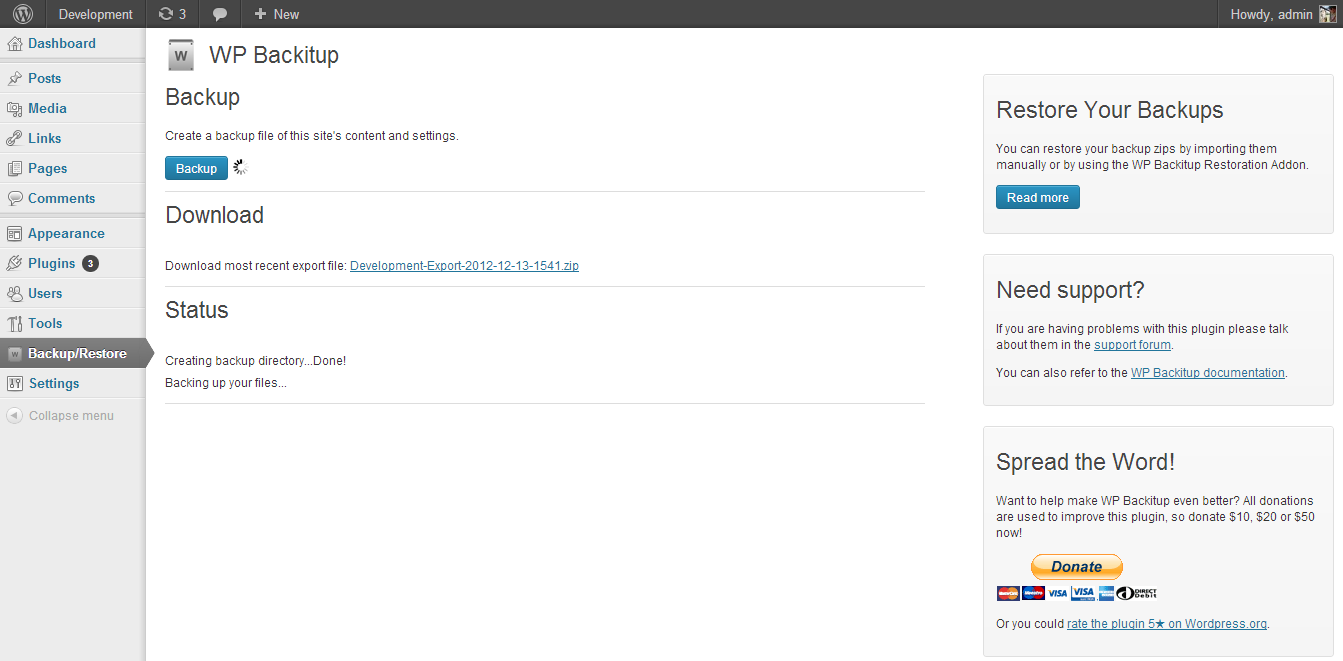
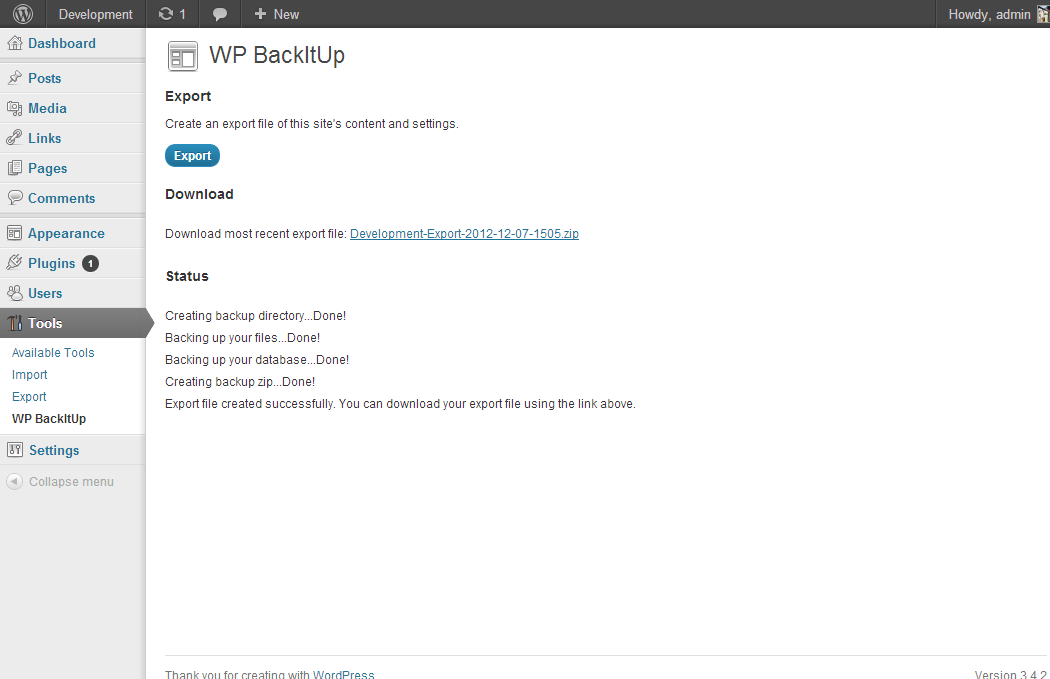
Updated trunk
git-svn-id: https://plugins.svn.wordpress.org/wp-backitup@645801 b8457f37-d9ea-0310-8a92-e5e31aec5664

diff --git a/trunk/css/wp-backitup.css b/trunk/css/wp-backitup.css
@@ -2,24 +2,6 @@
 
 .error {	color: #ff0000;}
 
-p {
-	line-height: 1.4em;
-}
-
-#content {
-	float: left;
-	width: 65%;
-}
-
-#sidebar {
-	float: right;
-	width: 30%;
-}
-
-.widget {
-	padding: 1em;
-}
-
 input {padding: 0;}
 
 h3 {
@@ -39,14 +21,19 @@ iframe {
 	width: 0;
 }
 
-.wp-backitup-section {
-	border-bottom: 1px solid #ddd;
-	clear:both;
-}
+.wp-backitup-section {clear:both;}
 
 #backup-button, #restore-form {
 	float: left;
 	margin: 0 5px 5px 0;
+}
+
+#backup-button a {
+	display: block;
+	padding: 3px 8px;
+	-webkit-border-radius: 10px;
+	-moz-border-radius: 10px;
+	border-radius: 10px;
 }
 
 .status-icon {
@@ -57,6 +44,8 @@ iframe {
 }
 
 .status-icon img {margin-top: 3px;}
+
+#wp-backitup-restore .status-icon img {margin-top: 7px;}
 
 #restore_form {margin-right: 5px;}
 

diff --git a/trunk/includes/functions.php b/trunk/includes/functions.php
@@ -15,13 +15,13 @@ if(!function_exists('recursive_copy')) {
 			if ($dh = opendir($dir) ) {
 				while(($file = readdir($dh)) !== false) { //While there are files in the directory
 					if ( !in_array($file, $ignore) && substr($file, 0, 1) != '.') { //Check the file is not in the ignore array
-						if (!is_dir( $dir.$file ) ) {
-								//Copy files to destination directory
-								$fsrc = fopen($dir .$file,'r');
-								$fdest = fopen($target_path .$file,'w+');
-								$len = stream_copy_to_stream($fsrc,$fdest);
-								fclose($fsrc);
-								fclose($fdest);
+						if (!is_dir( $dir.$file ) ) { //If $file is a file
+							//Copy files to destination directory
+							$fsrc = fopen($dir .$file,'r');
+							$fdest = fopen($target_path .$file,'w+');
+							$len = stream_copy_to_stream($fsrc,$fdest);
+							fclose($fsrc);
+							fclose($fdest); 
 						} else { //If $file is a directory
 							$destdir = $target_path .$file; //Modify the destination dir
 							if(!is_dir($destdir)) { //Create the destdir if it doesn't exist
@@ -107,6 +107,37 @@ if(!function_exists('recursive_delete')){
 			}
 			@rmdir($dir);	
 			closedir($dh);
+		}
+	return true;
+	}
+}
+
+//defube db_import function
+if(!function_exists('db_import')) {
+	function db_import($restoration_dir_path, $import_siteurl, $current_siteurl, $table_prefix, $import_table_prefix, $dbc) {
+		global $wpdb;
+		$sql_files = glob($restoration_dir_path . "/*.sql");
+		foreach($sql_files as $sql_file) {
+			$templine = ''; // Temporary variable, used to store current query
+			$lines = file($sql_file); // Read in entire file
+			foreach ($lines as $line) { // Loop through each line
+				if (substr($line, 0, 2) == '--' || $line == '') continue; // Skip it if it's a comment
+				$templine .= $line; // Add this line to the current segment
+				if (substr(trim($line), -1, 1) == ';') { // If it has a semicolon at the end, it's the end of the query
+					//replace imported site url with current site url
+					if( strstr( trim($templine), trim($import_siteurl) ) == TRUE ) //If import site url is found
+					$templine = str_replace( trim($import_siteurl), trim($current_siteurl), $templine ); // Replace import site url with current site url
+					//if the table prefixes are different, replace the imported site prefixes with the current prefixes
+					if ($table_prefix != $import_table_prefix) {
+						if( strstr( trim($templine), trim($import_table_prefix) ) == TRUE ) //If import table prefix is found
+						$templine = str_replace( trim($import_table_prefix), trim($table_prefix), $templine ); // Replace import site table prefix with current site table prefix
+					}
+					// Perform the query
+					if( mysqli_query($dbc, $templine) === FALSE) 
+						print('Error performing query \'<strong>' . $templine . '\': ' . mysql_error() . '<br /><br />');
+					$templine = ''; // Reset temp variable to empty
+				}
+			}
 		}
 	return true;
 	}

diff --git a/trunk/wp-backitup.php b/trunk/wp-backitup.php
@@ -1,9 +1,9 @@
 <?php 
 /**
- * Plugin Name: WP Backitup
+ * Plugin Name: WP BackItUp
  * Plugin URI: http://www.wpbackitup.com
  * Description: Backup your content, settings, themes, plugins and media in just a few simple clicks.
- * Version: 1.0.7
+ * Version: 1.0.6
  * Author: John Peden
  * Author URI: http://www.johncpeden.com
  * License: GPLv2 or later
@@ -11,7 +11,7 @@
  */
 
 /*
-	Copyright 2012-current  John Peden Ltd ( email : support@wpbackitup.com )
+	Copyright 2012-current  John C. Peden  ( email : mail@johncpeden.com )
 */
 
 //define constants
@@ -20,9 +20,15 @@ define("WPBACKITUP_PLUGIN_PATH", WP_PLUGIN_DIR."/wp-backitup/");
 define("WPBACKITUP_DIRNAME", "wp-backitup");
 define("BACKUP_PATH", WPBACKITUP_PLUGIN_PATH .'backups/');
 
+//add plugin options
+function wpbackitup_options_init() {
+	register_setting ('wpbackitup_options', 'wpbackitup', 'wpbackitup_options_validate');
+}
+add_action('admin_init', 'wpbackitup_options_init' );
+
 //load admin menu
 function wpbackitup_admin_menus() {
-	$wpbackituppage = add_menu_page( __( 'WP Backitup', 'wpBackitup' ), __( 'Backup/Restore', 'wpBackitup' ), 'manage_options', 'wp-backitup', 'wpbackitup_admin', plugin_dir_url(__FILE__ ) .'images/icon.png', 77);
+	$wpbackituppage = add_submenu_page( 'tools.php', 'WP BackItUp', 'WP BackItUp', 'manage_options', 'wp-backitup', 'wpbackitup_admin' );
 	add_action('admin_print_scripts-'.$wpbackituppage, 'wpbackitup_javascript');
 	add_action('admin_print_styles-' .$wpbackituppage, 'wpbackitup_stylesheet' );
 }
@@ -31,7 +37,6 @@ add_action('admin_menu', 'wpbackitup_admin_menus');
 //enqueue javascript
 function wpbackitup_javascript() {
 	wp_enqueue_script('wpbackitup-javascript', WPBACKITUP_PLUGIN_URL.'/js/wp-backitup.js');
-	//this needs moved to addon dir (as above)
 	wp_enqueue_script('ajaxfileupload', WPBACKITUP_PLUGIN_URL.'/js/ajaxfileupload.js');
 }
 
@@ -68,10 +73,3 @@ function wpbackitup_logreader() {
 	die();
 }
 add_action('wp_ajax_wpbackitup_logreader', 'wpbackitup_logreader');
-
-//load addons
-if(is_dir(WPBACKITUP_PLUGIN_PATH . "addons")){
-	foreach(glob(WPBACKITUP_PLUGIN_PATH . "addons/*/") as $addon) {
-		include_once $addon .'index.php';
-	}
-}

diff --git a/trunk/includes/backup.php b/trunk/includes/backup.php
@@ -1,5 +1,5 @@
 <?php
-//limite process to 5 minutes
+// 5 minutes per image should be PLENTY
 @set_time_limit(900);
 
 //Define variables
@@ -31,7 +31,7 @@ if(!is_writeable(BACKUP_PATH)) {
 //Backup content to project dir
 fwrite($fh, '<li>Backing up your files...');
 //Backup with copy
-if(recursive_copy($wp_content_path, $backup_project_path, $ignore = array( 'cgi-bin','.','..','._',$backup_project_dirname,'backupbuddy_backups','*.zip' ) ) ) {
+if(recursive_copy($wp_content_path, $backup_project_path, $ignore = array( 'cgi-bin','.','..','._',$backup_project_dirname ) ) ) {
 	fwrite($fh, 'Done!</li>');
 } else {
 	fwrite($fh, '</li><li class="error">Unable to backup your files. Please try again.</li></ul>');
@@ -70,7 +70,7 @@ if(!recursive_delete($backup_project_path)) {
 }
 
 //close log file
-fwrite($fh, '<li>Backup file created successfully. You can download your backup file using the link above.</li>');
+fwrite($fh, '<li>Export file created successfully. You can download your export file using the link above.</li>');
 fwrite($fh, '</ul>');
 fclose($fh);
 
